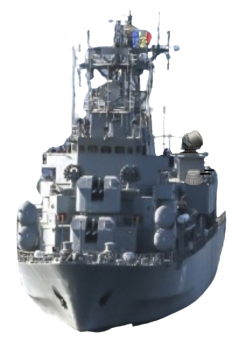
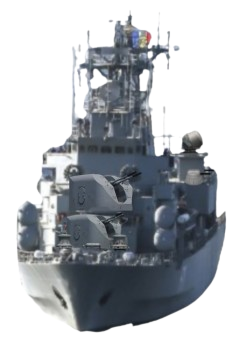
Add files via upload

diff --git a/simulare.js b/simulare.js
@@ -186,6 +186,14 @@ export class Simulare {
 			ak2.update(context);
 		}
 	}
+	controlFireAK726(context, ak1, ak2) {
+		if (!ak1.fireStop) {
+			ak1.update(context);
+			ak2.x = this.width / 9.4;
+			ak2.y = this.height / 1.95;
+			ak2.update(context);
+		}
+	}
 
 	controlAttack(context, ship) {
 		if (ship.missiles.p21) {
@@ -213,6 +221,12 @@ export class Simulare {
 			this.ships[2].fireAK630[0],
 			this.ships[2].fireAK630[1]
 		);
+		this.controlFireAK726(
+			context,
+			this.ships[2].fireAK726[0],
+			this.ships[2].fireAK726[1]
+		);
+		
 
 		if (ship.missiles.p21 && ship.missiles.p21.markedForDeletion)
 			delete ship.missiles.p21;
@@ -231,6 +245,11 @@ export class Simulare {
 				this.ships[2].fireAK630[0],
 				this.ships[2].fireAK630[1]
 			);
+			this.controlFireAK726(
+				context,
+				this.ships[2].fireAK726[0],
+				this.ships[2].fireAK726[1]
+			);
 			if (this.attackOver) {
 				this.ships[1].updateMissilesPosition();
 				Object.keys(this.ships[1].missiles).forEach((key) => {
@@ -245,6 +264,11 @@ export class Simulare {
 					context,
 					this.ships[2].fireAK630[2],
 					this.ships[2].fireAK630[3]
+				);
+				this.controlFireAK726(
+					context,
+					this.ships[2].fireAK726[2],
+					this.ships[2].fireAK726[3]
 				);
 			}
 		}

diff --git a/missile.js b/missile.js
@@ -170,6 +170,43 @@ export class FireAK630 {
 		}
 	}
 }
+export class FireAK726 {
+	constructor(simulare) {
+		this.simulare = simulare;
+		this.totalWidth = this.simulare.width;
+		this.totalHeight = this.simulare.height;
+		this.spriteWidth = 185;
+		this.spriteHeight = 170;
+		this.width = this.spriteWidth / 2;
+		this.height = this.spriteHeight/ 2;
+		this.x = this.simulare.width / 9;
+		this.y = this.simulare.height / 2.3;
+		this.image = ak726img;
+		this.fireCount = 0;
+		this.maxFire = 40;
+		this.fireInterval = 30;
+		this.fireTime = 0;
+		this.fireStop = this.fireCount > this.maxFire ? true : false;
+	}
+	draw(context) {
+		context.drawImage(this.image, this.x, this.y, this.width, this.height);
+	}
+	update(context) {
+		if (this.fireTime < this.fireInterval) this.fireTime++;
+		else {
+			this.draw(context);
+			this.createSmokeReaction();
+			this.fireCount++;
+			this.fireTime = 0;
+		}
+		if (this.fireCount > this.maxFire) this.fireStop = true;
+	}
+	createSmokeReaction() {
+		for (let i = 0; i < 15; i++) {
+			this.simulare.smokeParticles.unshift(new Dust(this.simulare));
+		}
+	}
+}
 
 export class Radar {
 	constructor(simulare) {

diff --git a/ship.js b/ship.js
@@ -1,4 +1,4 @@
-import { MissileP21, MissileP22, FireAK630, Radar } from './missile.js';
+import { MissileP21, MissileP22, FireAK630, FireAK726, Radar } from './missile.js';
 import { ArcDetection, ApproachDetection } from './approachLine.js';
 import { ShipFire } from './missileReaction.js';
 
@@ -125,6 +125,12 @@ export class Fregata extends Ship {
 			new FireAK630(this.simulare),
 			new FireAK630(this.simulare),
 			new FireAK630(this.simulare),
+		];
+		this.fireAK726 = [
+			new FireAK726(this.simulare),
+			new FireAK726(this.simulare),
+			new FireAK726(this.simulare),
+			new FireAK726(this.simulare),
 		];
 		this.zoomedIn = false;
 	}

diff --git a/index.html b/index.html
@@ -25,6 +25,7 @@
     <img src="fire.png" id="fireReaction">
     <img src="img-radar.png" id="radar">
     <img src="AK-6301.png" id="ak630img">
+    <img src="AK-726.png" id="ak726img">
     <img src="explosions/explosion0.png" class="explosion" id="explosion0">
     <img src="explosions/explosion0.10.png" class="explosion" id="explosion0.1">
     <img src="explosions/explosion0.20.png" class="explosion" id="explosion0.2">
